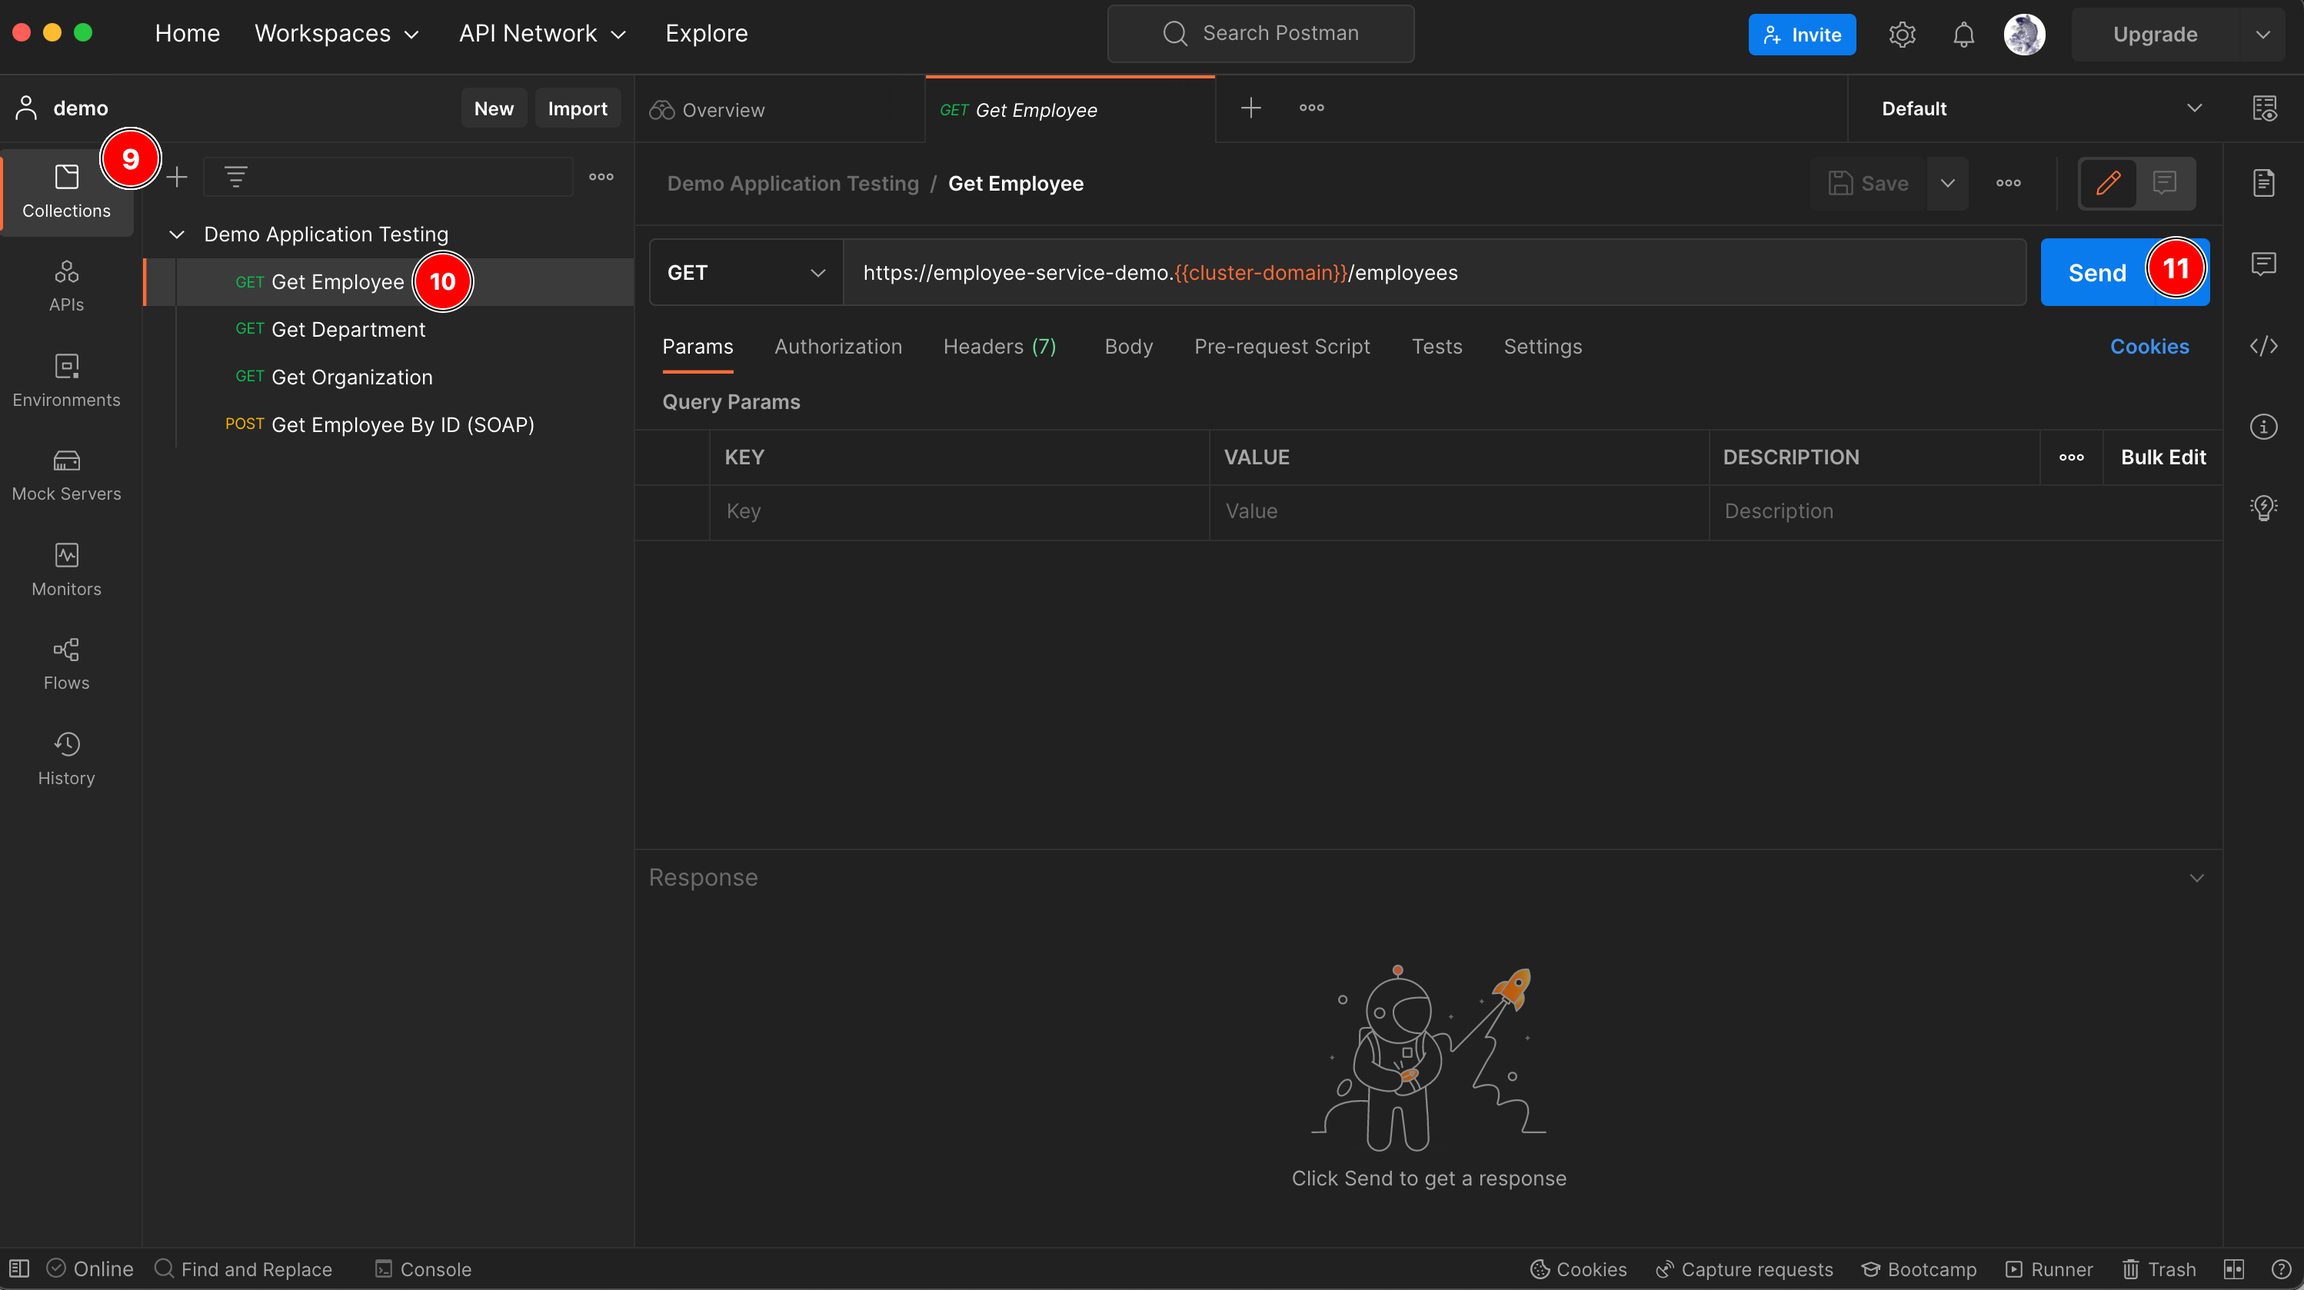
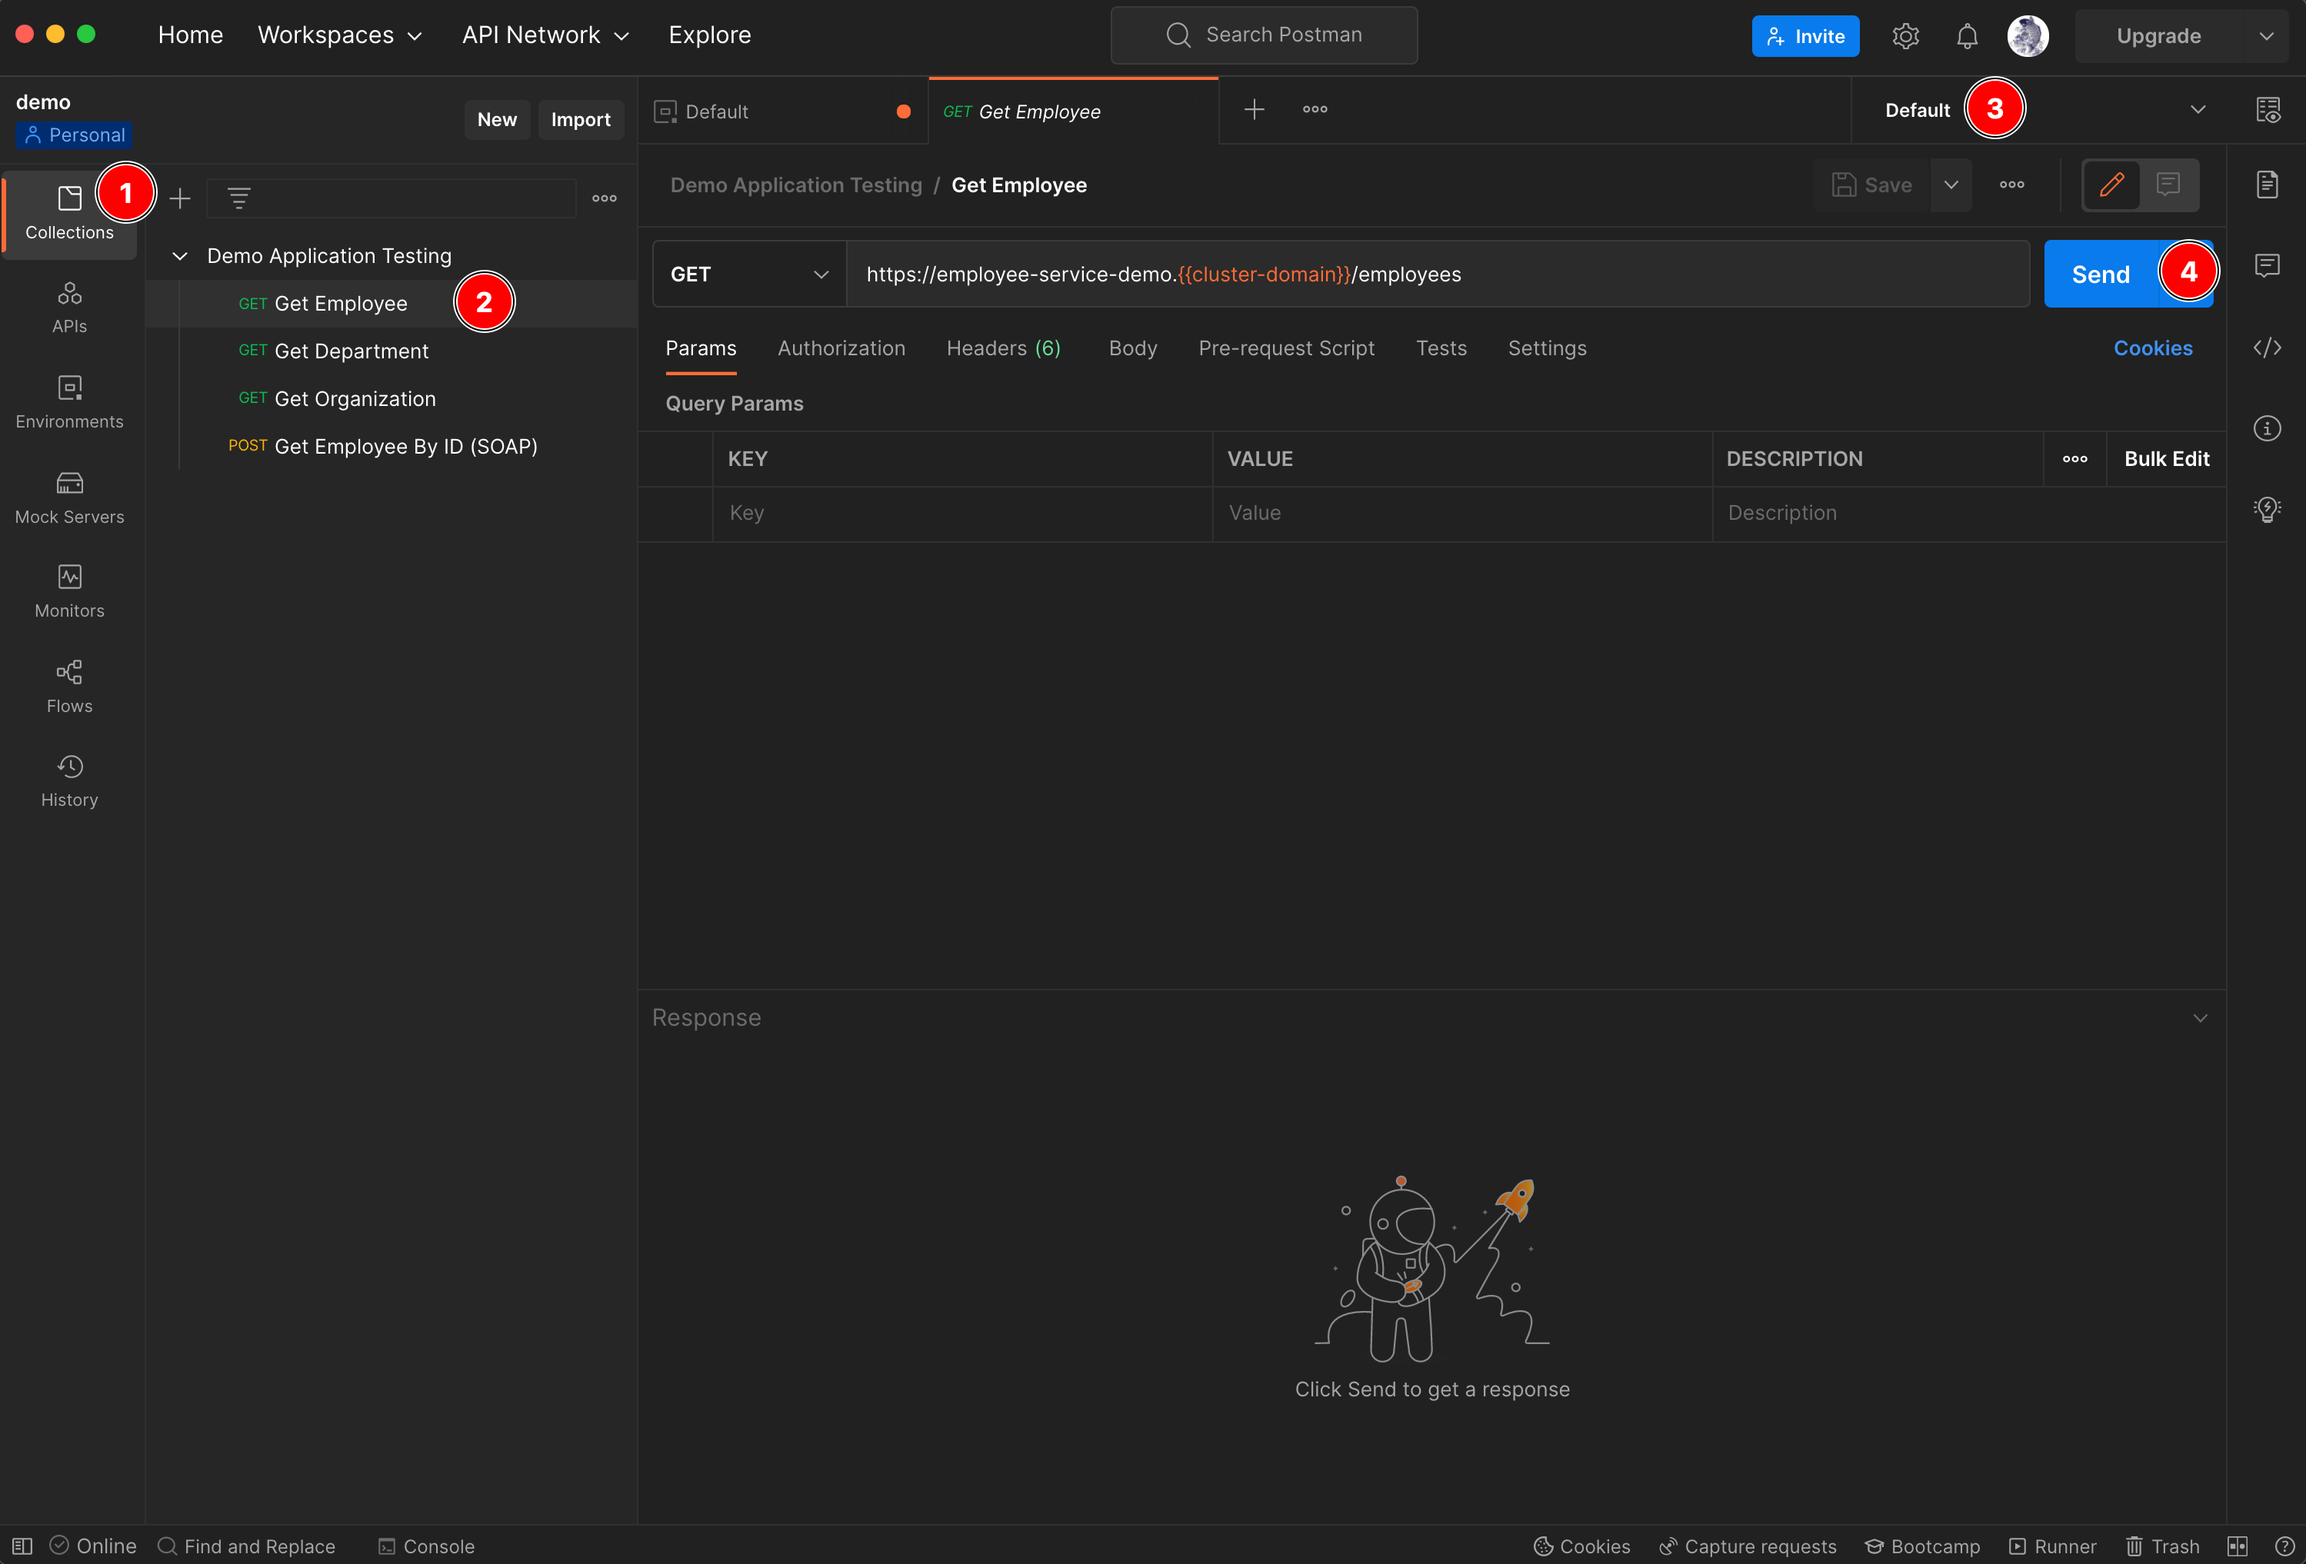
Add and update guides. Also update postman artefact

diff --git a/documents/testing-application.md b/documents/testing-application.md
@@ -4,6 +4,17 @@ There are 4 microservices deployed in the cluster by the [setup.sh](../script/se
 
 Those services that expose REST APIs come with Swagger UI which you can use to test the APIs in each service. However, you can also use Postman to both of REST APIs and SOAP APIs as well.
 
+## Postman Collection and Environment <!-- omit in toc -->
+
+There are 4 Postman collections you can use for API testing:
+
+1. [Demo Application Testing](../postman/demo-application-testing.postman_collection.json) - Used for testing the APIs exposed by microservices through the OpenShift Route directly.
+2. [3Scale API Testing (API Key Auth)](../postman/3scale-api-testing-api-key-auth.postman_collection.json) - Used for testing the APIs exposed through API Gateway using **API Key** as a credential for authentication.
+3. [3Scale API Testing (API Key Pair Auth)](../postman/3scale-api-testing-api-key-pair-auth.postman_collection.json)  - Used for testing the APIs exposed through API Gateway using **Application ID** and **Application Key** pair as a credential for authentication.
+4. 3Scale API Testing (OAuth)  - Used for testing the APIs exposed through API Gateway using OAuth2 authentication.
+
+There is also a [Postman Environment file](../postman/default.postman_environment.json) contains all environment vairables used by the collections. The enviroment variables are used to store values e.g. cluster domain, credentials etc.
+
 ## Requirements <!-- omit in toc -->
 
 - [Postman](https://www.postman.com/downloads/)
@@ -13,8 +24,7 @@ Those services that expose REST APIs come with Swagger UI which you can use to t
 - [Testing REST APIs via Swagger UI](#testing-rest-apis-via-swagger-ui)
 - [Testing REST and SOAP APIs with Postman](#testing-rest-and-soap-apis-with-postman)
   - [Import Postman Collections and Environments](#import-postman-collections-and-environments)
-  - [Testing APIs exposed through services directly](#testing-apis-exposed-through-services-directly)
-  - [Testing APIs exposed through API gateway](#testing-apis-exposed-through-api-gateway)
+  - [Testing APIs](#testing-apis)
 
 ## Testing REST APIs via Swagger UI
 
@@ -44,7 +54,7 @@ Those services that expose REST APIs come with Swagger UI which you can use to t
 
    ![import postman collection](../images/testing-service-6.png)
 
-2. Import this [Postman collection](../postman/demo-application-testing.postman_collection.json).
+2. Import these [Postman collections](/postman/) into the workspace.
 
    ![import postman collection](../images/testing-service-7.png)
 
@@ -54,7 +64,7 @@ Those services that expose REST APIs come with Swagger UI which you can use to t
 
    ![import postman collection](../images/testing-service-10.png)
 
-3. Import this [Postman Environments](../postman/default.postman_environment.json).
+3. Import this [Postman Environments](../postman/default.postman_environment.json) into the workspace.
 
    ![import postman environment](../images/testing-service-11.png)
 
@@ -62,20 +72,15 @@ Those services that expose REST APIs come with Swagger UI which you can use to t
 
    ![import postman environment](../images/testing-service-13.png)
 
-4. Edit Postman `cluster-domain` environment variable by replacing the OpenShift cluster domain.
+4. Edit Postman `cluster-domain` environment variable by replacing the OpenShift cluster domain you've provisioned in the **CURRENT VALUE** colume. Then click **Save** button.
 
-   ![import postman environment](../images/testing-service-14.png)
+   ![import postman environment](../images/testing-service-17.png)
 
-   ![import postman environment](../images/testing-service-15.png)
+### Testing APIs
 
-### Testing APIs exposed through services directly
-
-Switch back to **Collection** panel, then open the request you need to test.
+1. Select **Collection** panel.
+2. Open the request you need to test.
+3. Make sure you've select the **Default** environment.
+4. Click **Send** button to send request to server.
 
    ![import postman environment](../images/testing-service-16.png)
-
-### Testing APIs exposed through API gateway
-
-1. Import this [Postman collection](../postman/3scale-api-testing.postman_collection.json) to the workspace.
-
-2.

diff --git a/documents/secure-with-api-key-pair.md b/documents/secure-with-api-key-pair.md
@@ -1,0 +1,54 @@
+# Secure API with API Key-pair
+
+## Table of Content
+
+## 1. Configure Authentication Method for API Product
+
+1. Click on dropdown list menu then select **Products**. And then click on **Human Resource Services** link to open product dashboard.
+
+   ![secure api](../images/secure-api-key-pair-1.png)
+
+2. Select **Integration -> Settings** menu from left panel. Then select **App_ID and App_Key Pair The application is identified...** option.
+
+   ![secure api](../images/secure-api-key-pair-2.png)
+
+3. Scroll down to the bottom of the page then click **Update Product** button.
+
+   ![secure api](../images/secure-api-key-pair-3.png)
+
+## 2. Generate Key for Application
+
+1. Select **Applications -> Listing** menu from left panel. Then click **Test Corp HR Mobile** link.
+
+   ![secure api](../images/secure-api-key-pair-4.png)
+
+2. Click **Add Random key** link to generate a random Application key.
+
+   ![secure api](../images/secure-api-key-pair-5.png)
+
+3. An Application key should be generated. This key pair (
+Application ID and Application key) will be used as a credential for API calls.
+
+   ![secure api](../images/secure-api-key-pair-6.png)
+
+## 3. Promote Changes to APIcasts (API Gateways)
+
+1. Click on Back button of web browser to go back to previous page.
+
+   ![secure api](../images/secure-api-key-pair-7.png)
+
+2. Select **Integration -> Configuration** menu from left panel. Then click **Promote v.*N* to Staging APIcast** button to promote changes to staging API gateway and click **Promote v.*N* to Production APIcast** button to promote changes to production API gateway.
+
+   ![expose soap api](../images/expose-soap-api-15.png)
+
+## 4. Testing
+
+1. Open Application dashboard following [these steps](#2-generate-key-for-application), then use **Application ID** and **Application key** values to update Postman environment variables.
+
+   ![secure api](../images/secure-api-key-pair-6.png)
+
+2. Open Postman then update `app-id` and `app-key` variables, and then click **Save** button.
+
+      ![secure api](../images/secure-api-key-pair-8.png)
+
+3. [Test the APIs](testing-application.md#testing-apis) using [3Scale API Testing (API Key Pair Auth)](../postman/3scale-api-testing-api-key-pair-auth.postman_collection.json) collection.

diff --git a/documents/onboarding-new-api-consumer.md b/documents/onboarding-new-api-consumer.md
@@ -226,3 +226,17 @@ Once we've configured everything in place in API Manager, we have to promote all
    ![expose rest api](../images/expose-rest-api-30.png)
 
 ## 10. Testing
+
+1. Click on **Applications -> Listing** menu from left panel. Then click **Test Corp HR Mobile** link to open Application dashboard.
+
+   ![expose rest api](../images/expose-rest-api-38.png)
+
+2. Copy User Key.
+
+   ![expose rest api](../images/expose-rest-api-39.png)
+
+3. Open Postman then update `user-key` variable and click **Save** button.
+
+   ![expose rest api](../images/expose-rest-api-40.png)
+
+4. [Test the APIs](testing-application.md#testing-apis) using [3Scale API Testing (API Key Auth)](../postman/3scale-api-testing-api-key-auth.postman_collection.json) collection.

diff --git a/documents/expose-soap-api.md b/documents/expose-soap-api.md
@@ -92,3 +92,17 @@ Click on **Integration -> Configuration** menu from left panel. Then click **Pro
    ![expose soap api](../images/expose-soap-api-15.png)
 
 ## 5. Testing
+
+1. Click on **Applications -> Listing** menu from left panel. Then click **Test Corp HR Mobile** link to open Application dashboard.
+
+   ![expose rest api](../images/expose-rest-api-38.png)
+
+2. Copy User Key.
+
+   ![expose rest api](../images/expose-rest-api-39.png)
+
+3. Open Postman then update `user-key` variable and click **Save** button.
+
+   ![expose rest api](../images/expose-rest-api-40.png)
+
+4. [Test the APIs.](testing-application.md#testing-apis)

diff --git a/README.md b/README.md
@@ -61,7 +61,7 @@ Follow this [guide](documents/testing-application.md) for how to test the demo a
 
 1. [Onboarding new API consumer](documents/onboarding-new-api-consumer.md)
 2. [Expose SOAP API through API Gateway](documents/expose-soap-api.md)
-3. Secure API with API Key-pair
+3. [Secure API with API Key-pair](documents/secure-with-api-key-pair.md)
 4. Limit API call with Rate Limit feature
 5. Secure API with OAuth2 using Red Hat SSO
 6. Self-managed (Off-cluster) API Gateway
